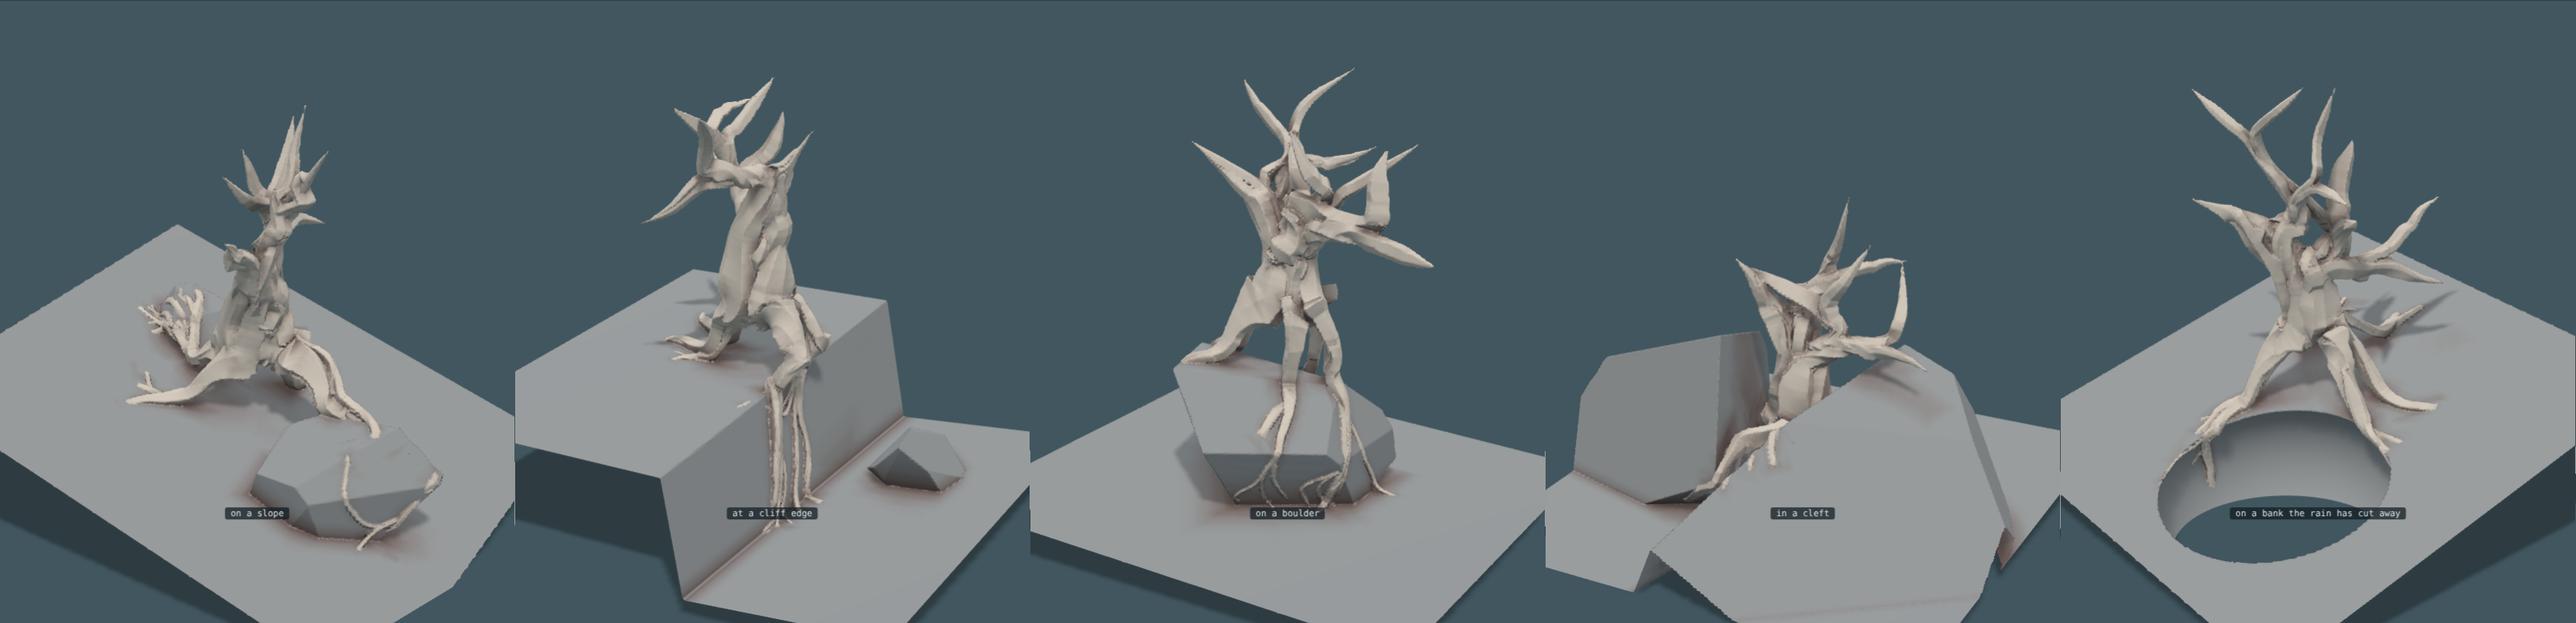
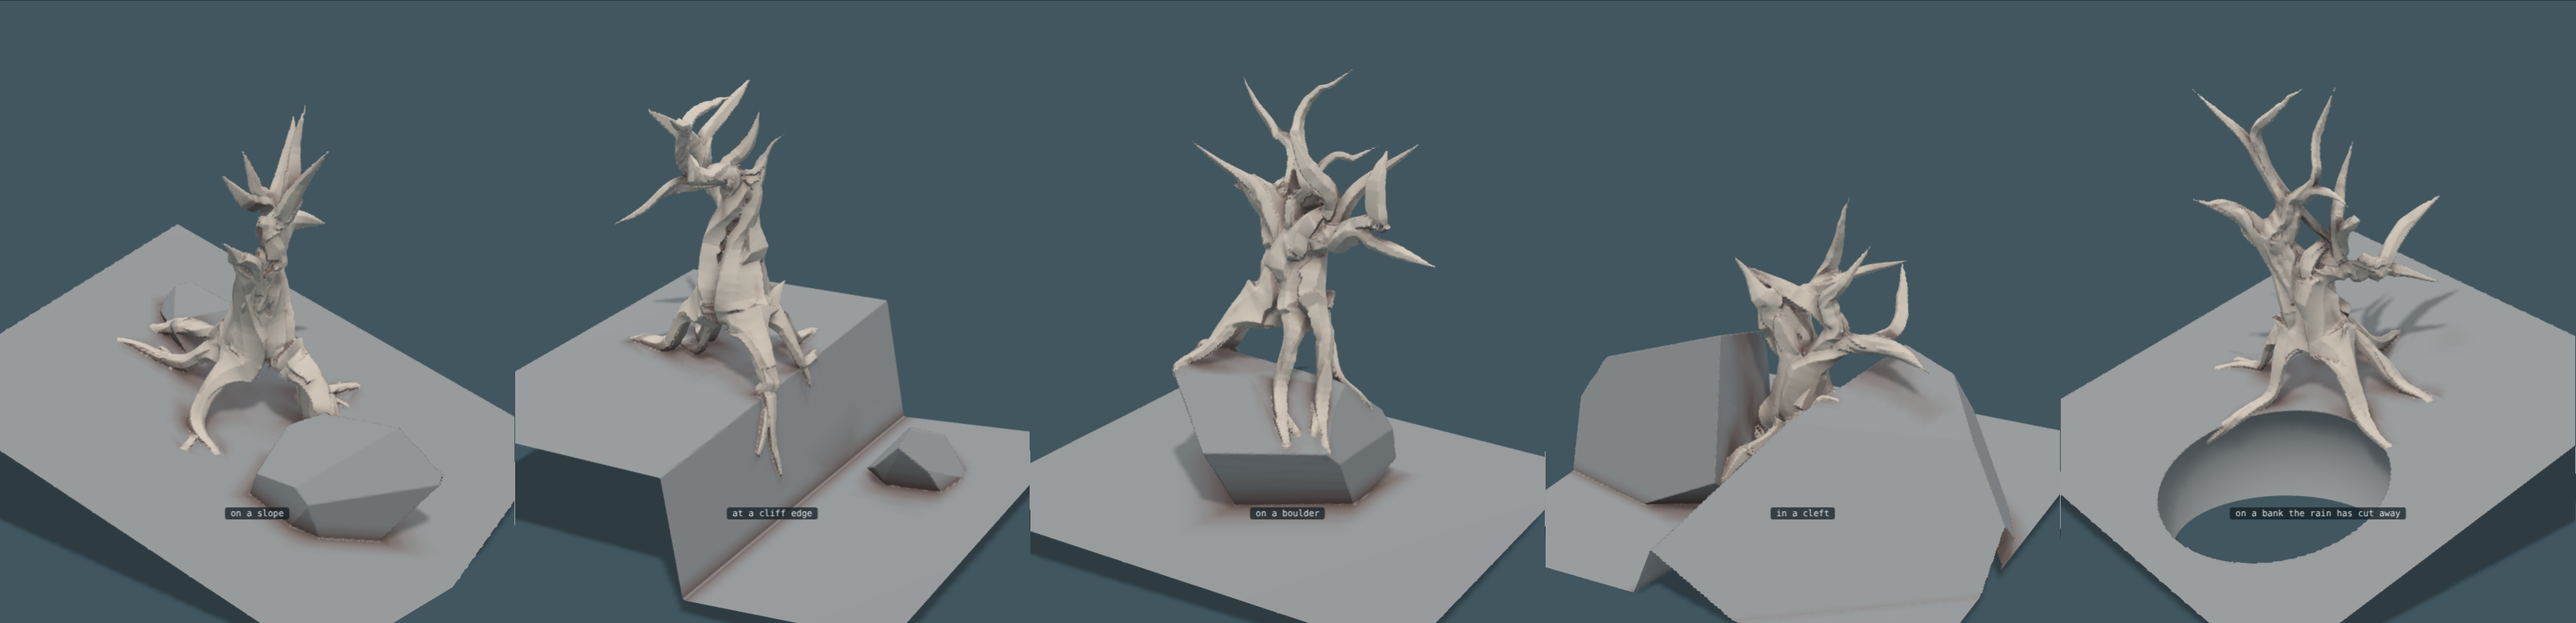
A root keeps to ground it can lie in: a cliff was a sink that took every root on that side and ran it to the bottom
Claude-Session: https://claude.ai/code/session_0192rgp75jGkttZXf7hEakip

diff --git a/trees.js b/trees.js
@@ -30,7 +30,7 @@
   function frames(P) { let N = null; return P.map((p, i) => { const T = unit([0, 1, 2].map((k) => P[Math.min(P.length - 1, i + 1)][k] - P[Math.max(0, i - 1)][k])); N = unit((N || [1, 0, 0.2]).map((v, k, A) => v - T[k] * dot(A, T))); return [T, N, cross(T, N)]; }); }
 
   function grow(recipe) {
-    const P = Object.assign({ strands: 8, fill: 0.75, uneven: 0.5, twist: 0.5, taut: 0.3, stiff: 0.05, hug: 0.15, bind: 0.004, roots: 0.6, wind: 1.1, mixed: false, lmax: 0, set: 0, swell: 1, feet: 0, lap: 0, ground: null, down: 0.6, crease: 0.5, snake: 1, air: 0.18, reach: 0.6, forks: 1, dive: 0.12, slant: 0.75, clumps: 3, cling: 0.88, grip: 0.62, collar: 1.6, flare: 0.07, waste: 0.25, clear: 1, settle: 0, giving: 0.75, passes: 1500, ds: 0.035, seed: 1, trunk: [[0, 0.14, 0, 0.27], [0, 1.6, 0, 0.1]], limbs: [], orb: null }, recipe);
+    const P = Object.assign({ strands: 8, fill: 0.75, uneven: 0.5, twist: 0.5, taut: 0.3, stiff: 0.05, hug: 0.15, bind: 0.004, roots: 0.6, wind: 1.1, mixed: false, lmax: 0, set: 0, swell: 1, feet: 0, lap: 0, ground: null, down: 0.6, crease: 0.5, snake: 1, air: 0.18, reach: 0.6, hang: 0.12, forks: 1, dive: 0.12, slant: 0.75, clumps: 3, cling: 0.88, grip: 0.62, collar: 1.6, flare: 0.07, waste: 0.25, clear: 1, settle: 0, giving: 0.75, passes: 1500, ds: 0.035, seed: 1, trunk: [[0, 0.14, 0, 0.27], [0, 1.6, 0, 0.1]], limbs: [], orb: null }, recipe);
     // The ground, if the tree is given one: any function of a place that is how far it is outside the ground (less than
     // nothing inside). Without one the ground is the level at height 0, as it always was. (A grown tree is always given one, level if nothing else, so that its roots are walked.)
     const G = P.ground, gradG = G ? (x, y, z) => { const e = 0.008; return unit([G(x + e, y, z) - G(x - e, y, z), G(x, y + e, z) - G(x, y - e, z), G(x, y, z + e) - G(x, y, z - e)]); } : null, rootPts = [];
@@ -71,8 +71,13 @@
         let tt = h.map((v, k) => v - nn[k] * dot(h, nn)); const dn = UP.map((v, k) => -(v - nn[k] * nn[1])), dl = H(dn[0], dn[1], dn[2]); if (H(tt[0], tt[1], tt[2]) < 0.2) tt = dl > 1e-6 ? dn : cross(nn, [1, 0, 0]); tt = unit(tt);
         curl = Math.max(-kmax, Math.min(kmax, curl * 0.9 + P.snake * 0.34 * kmax * (2 * r() - 1))); { const sd = cross(nn, tt); tt = unit(tt.map((v, k) => v * Math.cos(curl) + sd[k] * Math.sin(curl))); }
         const side = cross(nn, tt), out = unit([pos[0] - trunk[0][0], 0, pos[2] - trunk[0][2]]); let best = null;   // (out: away from the foot. A root goes somewhere; it does not come back under the tree.)
+        // A root wants ground it can lie in, so it keeps off a face it would only hang on. Without this, downhill
+        // is rewarded without limit and a cliff is irresistible: every root on that side goes over the lip and
+        // runs straight down the rock in parallel strands, which is a potato looking for water and not a tree.
+        // `hang`: how willing it is to take a steep face at all.
         for (const a of [-0.3, 0, 0.3]) { const c = tt.map((v, k) => v * Math.cos(a) + side[k] * Math.sin(a)), pr = pos.map((v, k) => v + c[k] * 0.07);
-          const score = 0.7 * dot(c, out) + P.down * dot(c, dn) - P.crease * Math.min(1, Math.max(0, G(pr[0] + nn[0] * 0.07, pr[1] + nn[1] * 0.07, pr[2] + nn[2] * 0.07)) / 0.07) + 2.4 * room(pr, rx.length - 12) / 0.22 + (a === 0 ? 0.15 : 0) + 0.1 * r(); if (!best || score > best.score) best = { score, c }; }
+          const lie = 1 - Math.abs(gradG(pr[0], pr[1], pr[2])[1]);
+          const score = 0.7 * dot(c, out) + P.down * dot(c, dn) - (1 - P.hang) * 2.2 * lie * lie - P.crease * Math.min(1, Math.max(0, G(pr[0] + nn[0] * 0.07, pr[1] + nn[1] * 0.07, pr[2] + nn[2] * 0.07)) / 0.07) + 2.4 * room(pr, rx.length - 12) / 0.22 + (a === 0 ? 0.15 : 0) + 0.1 * r(); if (!best || score > best.score) best = { score, c }; }
         h = best.c; let nx = pos.map((v, k) => v + h[k] * ds);
         // it lets go only where the ground itself drops away ahead of it, and never while it is still coming down
         const ahead = pos.map((v, k) => v + h[k] * 0.16), falls = G(ahead[0], ahead[1], ahead[2]) - G(pos[0], pos[1], pos[2]) > 0.1;
@@ -95,8 +100,9 @@
         if (flew) continue;
         for (let it = 0; it < 3; it++) { const gn = gradG(nx[0], nx[1], nx[2]), gv = G(nx[0], nx[1], nx[2]); nx = nx.map((v, k) => v + gn[k] * (want - gv)); }
         if (Math.abs(nx[0]) > 0.92 || Math.abs(nx[2]) > 0.92) break;   // a root stays on the ground it was given
-        // coming down counts little toward its length, as going down a face does: a root's length is the run it has once it is in the ground
-        const steep = Math.abs(gradG(nx[0], nx[1], nx[2])[1]) < 0.6, coming = G(nx[0], nx[1], nx[2]) > 3 * rad; prog += ds * (steep || coming ? 0.3 : 1); gone += H(nx[0] - pos[0], nx[1] - pos[1], nx[2] - pos[2]); pos = nx; rx.push(nx); rr.push(rad); }   // (gone is real distance: counted as ds while the step also drops, the descent comes out far steeper than `slant` asks)
+        // coming down to the ground counts little toward its length. Going down a face is not free any more: it was,
+        // and a root that went over a lip then ran on to the bottom of the cliff however far that was.
+        const coming = G(nx[0], nx[1], nx[2]) > 3 * rad; prog += ds * (coming ? 0.3 : 1); gone += H(nx[0] - pos[0], nx[1] - pos[1], nx[2] - pos[2]); pos = nx; rx.push(nx); rr.push(rad); }   // (gone is real distance: counted as ds while the step also drops, the descent comes out far steeper than `slant` asks)
       return { rx, rr }; } : null;
     // every strand has a place in the bundle's section, and a girth of its own (mixed: most thin, a few heavy)
     const S = Array.from({ length: n }, (_, j) => { const d = Math.sqrt((j + 0.5) / n), a = j * GA + 0.5 * (r() - 0.5); return { a: d * Math.cos(a), b: d * Math.sin(a), fat: P.mixed ? 0.35 + 1.9 * Math.pow(r(), 2.5) : 1 + P.uneven * (r() - 0.5), limb: -1, give: r() < P.giving ? 1 : 0.25 * r() }; });

diff --git a/sketch/page11.js b/sketch/page11.js
@@ -19,7 +19,7 @@
   const bowl = (c, R, squash = [1, 1, 1]) => (x, y, z) => H((x - c[0]) / squash[0], (y - c[1]) / squash[1], (z - c[2]) / squash[2]) - R;
   const SITES = [
     ['on a slope', all(under([0.38, 1, 0.1], [0, 0.42, 0]), rock([0.42, 0.3, 0.3], 0.24, 3), rock([-0.5, 0.62, -0.35], 0.2, 5)), [0, 0], 1],
-    ['at a cliff edge', all(both(under([0, 1, 0.05], [0, 0.62, 0]), under([1, 0.18, 0], [0.14, 0.3, 0])), under([-0.08, 1, 0], [0, 0.07, 0]), rock([0.55, 0.1, -0.4], 0.2, 7)), [-0.06, 0], 2],
+    ['at a cliff edge', all(both(under([0, 1, 0.05], [0, 0.62, 0]), under([1, 0.18, 0], [0.14, 0.3, 0])), under([-0.08, 1, 0], [0, 0.07, 0]), rock([0.55, 0.1, -0.4], 0.2, 7)), [-0.17, 0.02], 2],
     ['on a boulder', all(under([0.05, 1, -0.05], [0, 0.1, 0]), rock([0, 0.32, 0], 0.4, 11, [1.1, 0.85, 1])), [0.03, 0.02], 3],
     ['in a cleft', all(under([0, 1, 0.06], [0, 0.08, 0]), rock([-0.5, 0.3, 0.02], 0.36, 13, [1, 1.1, 1.2]), rock([0.5, 0.28, -0.04], 0.36, 17, [1, 1.05, 1.2])), [0, 0], 4],
     ['on a bank the rain has cut away', cut(all(under([0.1, 1, 0.3], [0, 0.46, 0]), rock([0.55, 0.12, -0.5], 0.18, 19)), bowl([0.2, 0.18, 0.34], 0.52, [1, 0.75, 1])), [-0.1, -0.06], 6],

diff --git a/LOG.md b/LOG.md
@@ -3362,3 +3362,41 @@ Wrong, or not there:
 - The skirt webs between legs that are far apart on one of the four,
   where it should have given up and left them separate.
 - A root still ends where its length runs out.
+
+## A cliff is not an invitation
+
+Said of the cliff tree: it looks weird, that is how potatoes grow — known
+for their aggressive root journeys when no moisture is found.
+(`sketch/page11-potato-roots-withdrawn.png`.) Five roots went over the
+lip and ran straight down the rock in parallel strands to the bottom.
+
+Two rules were wrong, and both said the same thing: nothing in the walk
+knew the difference between ground a root can lie in and rock it can only
+hang on.
+
+- A root scored a step partly by how far downhill it went. On a vertical
+  face every step is maximally downhill, so a cliff was irresistible: not
+  a choice between ways, a sink that took every root on that side. It now
+  also scores how flat the ground is where it would put its next step,
+  and strongly: `hang` (0.12) is all that is left of a face's appeal.
+- Going down a face cost a root almost nothing of its length — the rule
+  that lets a root cross a step in the ground and carry on. Over a cliff
+  it meant a root ran to the bottom however far that was. A face now
+  costs what any other ground costs. Only coming down to the ground from
+  the foot is still free.
+
+And the site put the tree on the very lip, where its roots had nowhere
+else to be. It stands back from it now, by two of its own foot widths.
+
+`sketch/page11.png`, `-other-side`, `-foot` (five sites). The tree at the
+cliff keeps its roots on the flat and sends two over the edge. The one on
+the boulder still comes down the stone, which was the thing to be careful
+of: the stone's sides are not sheer and the ground is close under them,
+so a root there is never far from somewhere to lie. Page 9's trees and
+page 7's are untouched — on level ground neither rule can fire.
+
+Wrong, or not there:
+- The two roots that do go over the lip still hang nearly straight. A
+  root on a face ought to work across it, finding ledges.
+- Nothing prefers the lip itself, where in a real cliff-edge tree the
+  heaviest roots run along the edge like a hem.
